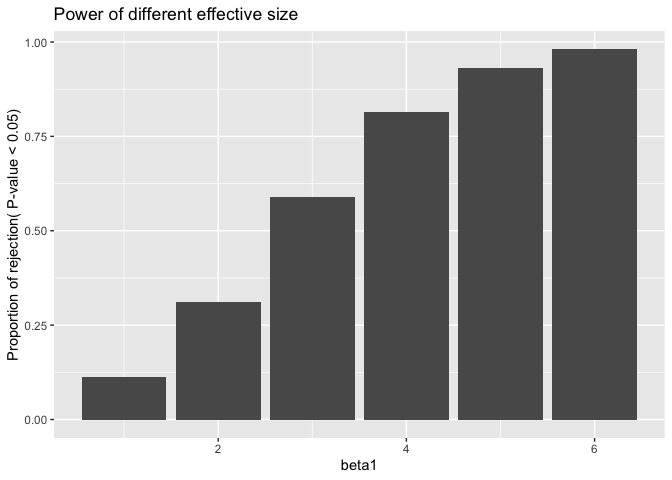
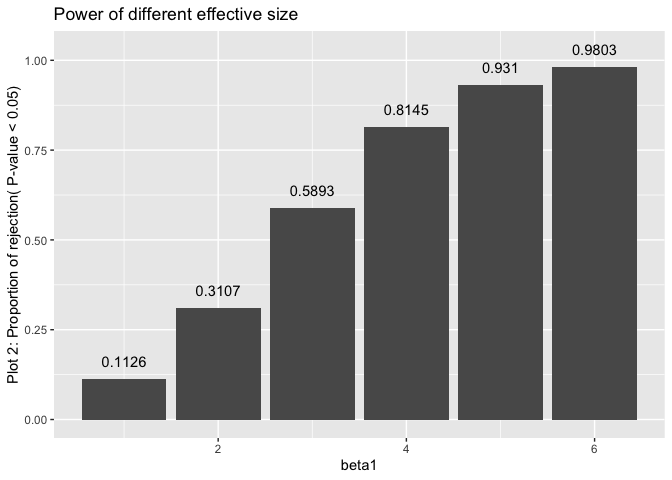
change md files and plots.

diff --git a/p8105_hw4_ym2771.md b/p8105_hw4_ym2771.md
@@ -67,20 +67,22 @@ study_df <-
 
 ``` r
 study_df %>% 
-    ggplot(aes(x = week,y = value,color = group, group = ID))+
-    geom_line()
+  ggplot(aes(x = week,y = value,color = group, group = ID))+
+  geom_line() +
+  labs(title = "Plot 1: Spaghetti plot of experiment value among weeks")
 ```
 
 ![](p8105_hw4_ym2771_files/figure-gfm/unnamed-chunk-4-1.png)<!-- -->
 
 ## comment
 
-Value of experiment group is significantly larger than control group.
+As shown in plot 1，The value of experiment group increases along time,
+but the value of control group is fluctuated in a specific range.
 
 # Problem 3
 
 ``` r
-sim_reg <- function(beta1 = 1){
+sim_reg <- function(beta1 = 0){
     n = 30
     beta0 = 2
     var = 50
@@ -91,7 +93,7 @@ sim_reg <- function(beta1 = 1){
     
 }
 
-estimationa_beta1_1 <- 
+estimationa_beta1_0 <- 
     rerun(10000,sim_reg()) %>% 
     bind_rows()
 
@@ -113,12 +115,22 @@ g1 <- estimation %>%
   summarise(count = n(),proportion = count/10000) %>% 
   ggplot(aes(x = beta1, y = proportion))+
   geom_bar(stat = "identity")+
-  labs(y = "Proportion of rejection( P-value < 0.05)", title = "Power of different effective size")
+  geom_text(aes(y = proportion + 0.05,label = proportion))+
+  labs(y = "Plot 2: Proportion of rejection( P-value < 0.05)", title = "Power of different effective size")
 
 g1
 ```
 
 ![](p8105_hw4_ym2771_files/figure-gfm/unnamed-chunk-6-1.png)<!-- -->
+
+## comment
+
+As Shown in Plot 2, the power is increasing as the effective size
+increase(defined as the difference as the null and alternative
+hypothesis of beta1 value).
+
+The proportion of rejection when beta1 = 0 is the significance level of
+the hypothesis.
 
 ``` r
 mean_total = estimation %>% 
@@ -136,8 +148,28 @@ g2 <- rbind(mean_total,mean_reject) %>%
   ggplot(aes(x = beta1, y = mean, color = category)) +
   geom_point() +
   geom_line()+
-  labs(y =  "mean of estimation of beta1", title = "Comparison of mean estimation beta1 in total and rejected group.")
+  labs(y =  "mean of estimation of beta1", title = "Plot 3: Comparison of mean estimation beta1 in total and rejected group.")
 g2
 ```
 
 ![](p8105_hw4_ym2771_files/figure-gfm/unnamed-chunk-7-1.png)<!-- -->
+
+## comment
+
+As shown in plot 3, total means of estimation of different beta1 are
+approximately equal to true parameter, since we simulated 10,000 times,
+but the means of estimation which are rejected of different beta1 are
+gradually approching to true parameter as the effective size increase.
+
+When effective size is close to 0, it is hard to reject the null
+hypothesis unless the estimation value falls in extremely extremely
+situation (tails of true distribution), and estimation in extremly large
+situation is more likely to be generated and rejected, thus the
+proportion of rejection is small (as shown in plot 2) and the mean value
+is larger than the true parameter.
+
+As the effective size increase, the differences between alternative and
+null distributions enlarge, it is more likely to fall in the rejection
+region of null hypothesis and the proportion of rejected estimation is
+approximate to 1 in large effective size, thus the mean of rejection is
+approach to true parameter.
